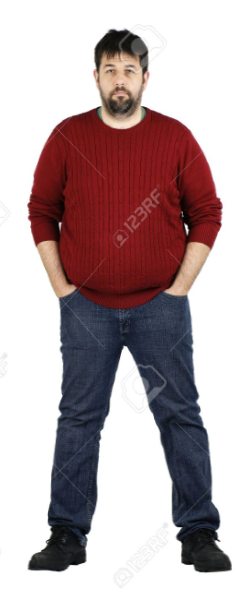
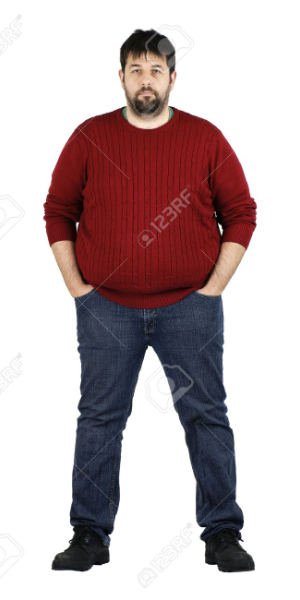
canva is fixed, percentage body weight loss implemented for torso

diff --git a/thin-plate-spline/torsoFront.py b/thin-plate-spline/torsoFront.py
@@ -296,10 +296,51 @@ class torsoFront:
         
         # cv2.imshow('Warped', new_im)
         # cv2.waitKey(0)
-    
+    def getPixelDistance(self, part):
+        if(part == 'belly'):
+            belly_points = self.getBodyPartCoordinates('belly')
+            belly_right_source_x, belly_right_source_y, belly_left_source_x, belly_left_source_y = belly_points.getSourcePoints()
+            distance_pixel = belly_left_source_x - belly_right_source_x
+            return distance_pixel
+        elif (part == 'waist'):
+            waist_points = self.getBodyPartCoordinates('waist')
+            waist_right_source_x, waist_right_source_y, waist_left_source_x, waist_left_source_y = waist_points.getSourcePoints()
+            distance_pixel = waist_left_source_x - waist_right_source_x
+            return distance_pixel
+
+        elif (part == 'bust'):
+            bust_points = self.getBodyPartCoordinates('bust')
+            bust_right_source_x, bust_right_source_y, bust_left_source_x, bust_left_source_y = bust_points.getSourcePoints()
+            distance_pixel = bust_left_source_x - bust_right_source_x
+            return distance_pixel
+        
+        elif (part == 'hip'):
+            hip_points = self.getBodyPartCoordinates('hip')
+            hip_right_source_x, hip_right_source_y, hip_left_source_x, hip_left_source_y = hip_points.getSourcePoints()
+            distance_pixel = hip_left_source_x - hip_right_source_x
+            return distance_pixel
+        else:
+            return None
+        
+    def setByPercentage(self, part, percentage):
+        if(part == 'belly' or part == 'waist' or part == 'bust' or part == 'hip'):
+            print("GIRDIM 3")
+            distance = self.getPixelDistance(part)
+            per_part = int((distance * percentage)/2)
+            
+            #print(f'distance {distance} per_part {per_part}')
+            if(part == 'bust'):
+                self.bust.setEpsilonX(per_part)
+            elif(part == 'waist'):
+                self.waist.setEpsilonX(per_part)
+            elif(part == 'hip'):
+                self.hip.setEpsilonX(per_part)  
+            elif(part == 'belly'):
+                self.belly.setEpsilonX(per_part)  
+        else: 
+            return False
     
     def performVerticalWarping(self, body_part, step = 0):
-        
         
         if (body_part != 'belly' and body_part != 'bust'):
             return #Exception

diff --git a/thin-plate-spline/Body.py b/thin-plate-spline/Body.py
@@ -52,10 +52,10 @@ from PIL import Image
 # if im is None:
 #     print("Error loading image. Check the file path.")
 #     exit(1)
-CROP_AMOUNT = 75
+CROP_AMOUNT = 50
 class Body:
 
-    def __init__(self, body_parts_, img):
+    def __init__(self, body_parts_, img, setByPercentage = False):
         self.initial_img = img.copy()
         self.curr_im  = img
         self.height, self.width = img.shape[:2]
@@ -65,12 +65,21 @@ class Body:
         self.steps.append(self.curr_im)
         
         self.body_parts = body_parts_ 
-        self.torso = torsoFront(img, self.body_parts, 8, 8, 5, 5) # waist, belly, bust  hip
+        
+        self.torso = torsoFront(img, self.body_parts, 3, 4, 3, 3) # waist, belly, bust  hip
         self.leftArm = Arm(img, self.body_parts, 2)
         self.rightArm = Arm(img, self.body_parts, 2)
-        self.leftLeg = upperLeg(img, self.body_parts, 7)
+        self.leftLeg = upperLeg(img, self.body_parts, 3)
         self.rightLeg = upperLeg(img, self.body_parts, 3)
+        
+        if(setByPercentage):
+            percentage = 0.12
+            self.torso.setByPercentage('belly', percentage)
+            self.torso.setByPercentage('waist', percentage)
+            self.torso.setByPercentage('hip', percentage)
+            self.torso.setByPercentage('bust', percentage)
 
+    
     def resetImage(self):
         """
             Returns:
@@ -143,6 +152,7 @@ class Body:
             im = self.leftLeg.showAllLegPoints()
             cv2.imshow('Leg Warping Points',im)
             cv2.waitKey(0)
+        
     
     def warp(self, body_part):
     

diff --git a/thin-plate-spline/server.py b/thin-plate-spline/server.py
@@ -71,15 +71,27 @@ def body_weight_loss():
             'rightAnkle': body_parts_data['keypoints'].get('rightAnkle')
         }
         
-        # print("Received data:", extracted_data)
+        print("Received data:", body_parts_data)
         print("Image saved to:", filepath)
         
+        setEpsilonPercentage = True
+        
         im = cv2.imread(filepath)
-        body = Body(extracted_data, im)
-        body.warp('belly')
+
+        body = Body(extracted_data, im, setEpsilonPercentage)
+        
+        # body.warp('belly')
+        # body.warp('waist')
+        # body.warp('bust')
+
+        # body.showWarpingPoints('torso')
+        # body.showWarpingPoints('legs')
+        # body.showWarpingPoints('arms')
+        # body.warp('belly')
         # body.warp('waist')
         # body.warp('leftLeg')
         # body.warp('rightLeg')
+        
         body.save(cropImage=True)
         filepath = "uploads\edited.png"
         return send_file(filepath, mimetype='image/png')
